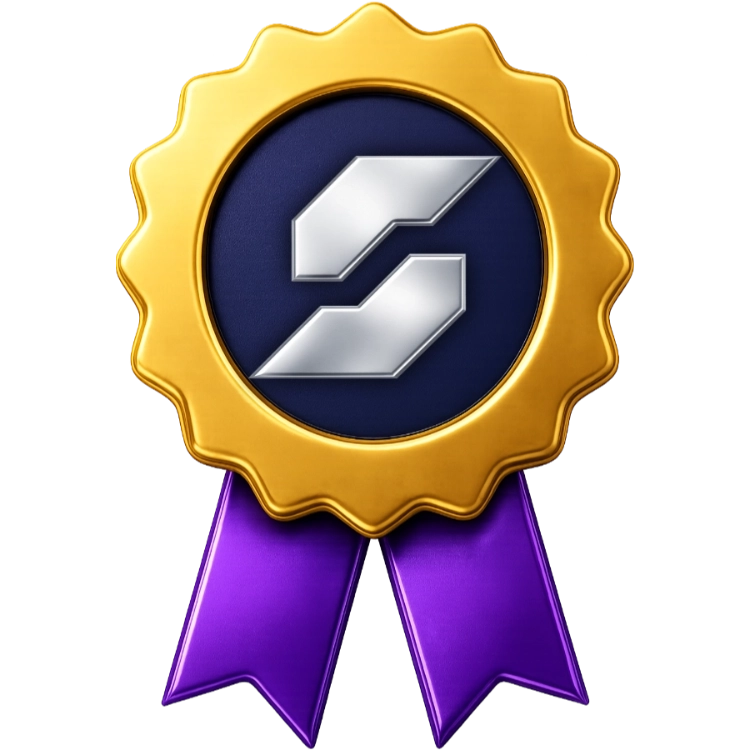
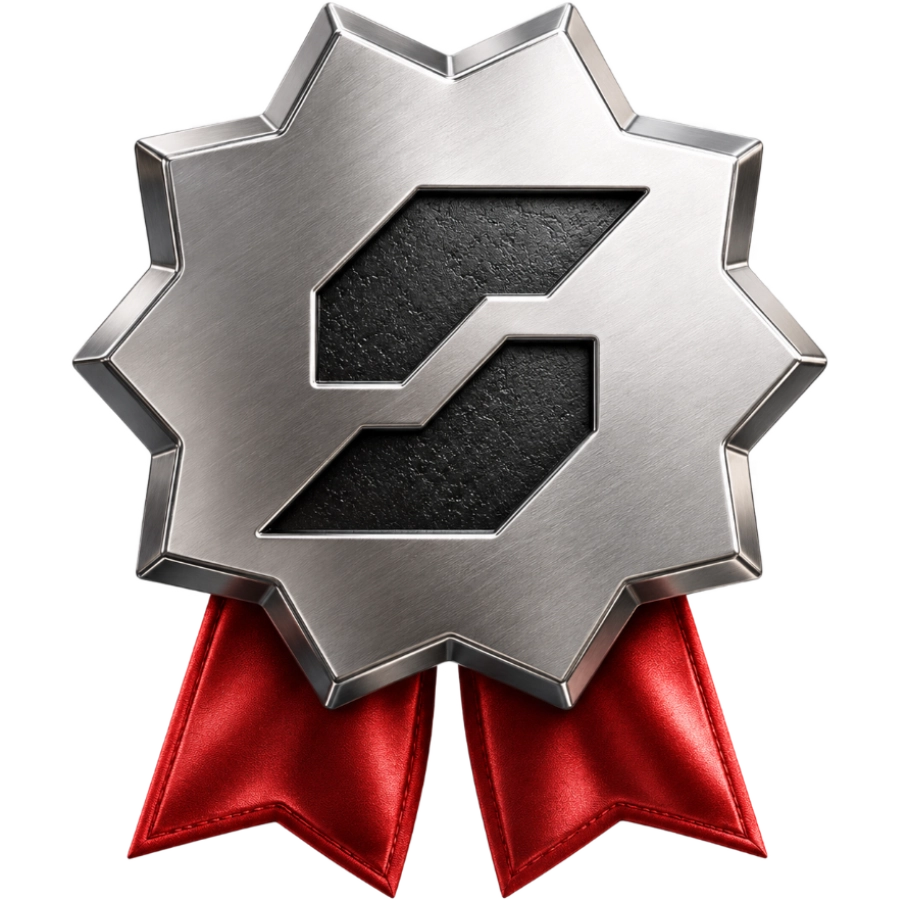
Fix Kick webhook trigger dispatch and quarantine Twitch runtime
Fixed the Kick webhook pipeline so received and normalized chat messages continue into session resolution, trigger evaluation, command handling, and dispatch telemetry instead of stopping before trigger processing.

Kick debug telemetry now records trigger evaluation, matched or no-match outcomes, dispatch attempts/results, recent inbound message summaries, sender details, and target mismatch diagnostics. Commands such as `!ping` now reach the existing trigger/dispatch path, with any remaining send failure reported as an explicit blocker.

Twitch bot runtime is now enforced as staged/disabled by default so scheduler reconciliation and manual deploy cannot start EventSub workers unless the runtime flag is explicitly enabled. The Twitch EventSub connector call path was made safe for the previous `channel` keyword mismatch so future enabled tests do not fail at startup.

BUMP_NOTES.md was updated in each modified repo, and README repo trees were updated only if file structure changed.

diff --git a/docs/js/bots.js b/docs/js/bots.js
@@ -1099,6 +1099,11 @@
         <div><span class="ss-bot-field-label">Dispatch HTTP</span><strong>${escapeHtml(String(pipeline.last_dispatch_http_status ?? "-"))}</strong></div>
         <div><span class="ss-bot-field-label">Dispatch message</span><strong>${escapeHtml(pipeline.last_dispatch_response_message || "-")}</strong></div>
         <div><span class="ss-bot-field-label">Suppression</span><strong>${escapeHtml(pipeline.last_suppression_reason || "-")}</strong></div>
+        <div><span class="ss-bot-field-label">Configured target</span><strong>${escapeHtml(pipeline.configured_target || "-")}</strong></div>
+        <div><span class="ss-bot-field-label">Active target</span><strong>${escapeHtml(pipeline.active_target || "-")}</strong></div>
+        <div><span class="ss-bot-field-label">Webhook target</span><strong>${escapeHtml(pipeline.webhook_event_target || "-")}</strong></div>
+        <div><span class="ss-bot-field-label">Target match</span><strong>${escapeHtml(pipeline.target_match === true ? "true" : pipeline.target_match === false ? "false" : "-")}</strong></div>
+        <div><span class="ss-bot-field-label">Target mismatch</span><strong>${escapeHtml(pipeline.target_mismatch_reason || "-")}</strong></div>
         ${recent.length ? `<div><span class="ss-bot-field-label">Recent messages</span><code>${escapeHtml(JSON.stringify(recent))}</code></div>` : ""}
       </div>
     `;

diff --git a/BUMP_NOTES.md b/BUMP_NOTES.md
@@ -6,6 +6,10 @@ Packaged / released and no longer the active pending bucket. Preserve new notes 
 
 ## CURRENT VER= 0.5.0-alpha / PENDING VER= 0.5.1-alpha
 
+- Admin Bots debug now renders Kick trigger pipeline target diagnostics from Runtime/Auth, including configured target, active target, webhook event target, target match, and mismatch reason alongside evaluation and dispatch fields.
+- Twitch staged/disabled/quarantined rows remain display-only Runtime/Auth consumer state; Dashboard does not mark them as runner-starting or synthesize active Twitch rows while `TWITCH_BOT_RUNTIME_ENABLED` is false.
+- Human note: Kick debug should make target drift and dispatch blockers visible without hiding configured rows or inflating live counts.
+
 - Historical bot restore follow-up: Admin Bots no longer hides `export_snapshot_only` + `stale_export_ignored` rows when Runtime/Auth marks them `visible_in_admin=true`; stale export rows remain visible for debugging while `TOTAL LIVE BOTS` continues to count only live-worker evidence.
 - The Bots view now preserves and renders runtime freshness diagnostics (`status_source`, `generated_at`, `stale_threshold_seconds`, `age_seconds`, `api_fetch_ok`) and dispatches the existing admin-live-data event after a successful `/api/admin/bots/status` fetch so the global stale snapshot banner clears only for real live admin API success.
 - Root cause note: the table could still collapse to “No bot targets are configured” because Dashboard filtered stale export-only rescue rows before rendering; the global stale warning stayed stuck because Bots did not explicitly mark successful admin status hydration as live data.